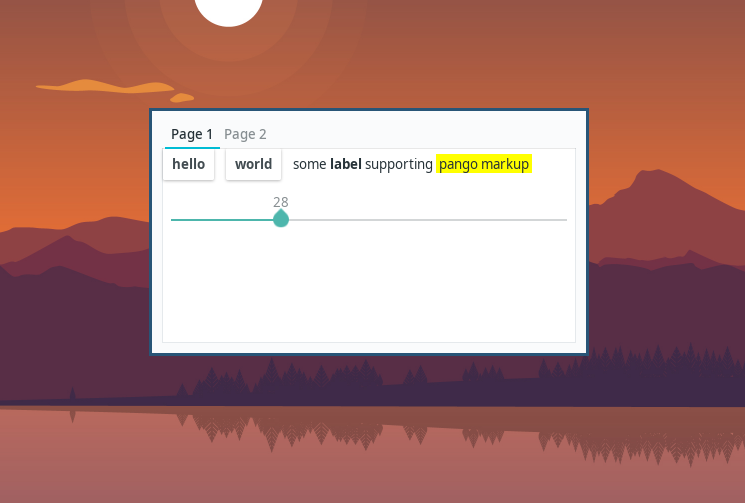
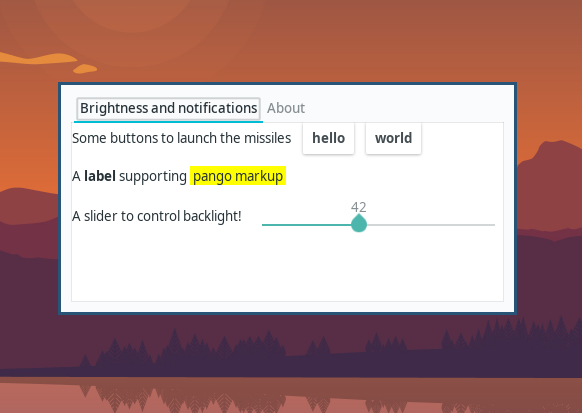
split the program into multiple modules, enabled "hexpand" for scales

diff --git a/src/main.rs b/src/main.rs
@@ -1,148 +1,42 @@
 use gtk::{ApplicationWindow, Application};
 use gtk::prelude::*;
 use gio::prelude::*;
+use std::io::prelude::*;
 
-use gtk::prelude::IsA;
-
-use std::{fmt::Debug, io::prelude::*, str::FromStr};
 use std::fs::File;
-use serde_derive::{Serialize, Deserialize};
 
 use std::env::args;
 
-#[derive(Serialize, Deserialize)]
-enum Orientation {
-    Vertical,
-    Horizontal,
-}
+mod structs;
+use structs::*;
 
-#[derive(Serialize, Deserialize)]
-enum SeralizableWidget {
-    Notebook(Vec<SeralizableWidget>),
-    Box(String, Orientation, Vec<SeralizableWidget>),
-    Label(String),
-    Button(String, String), // label, command
-    Scale(f64, f64, String, String), // min, max, initialize, update
-}
+pub mod helper;
 
-
-fn read_value_from_command <T> (command: String, default: T) -> T 
-    where T: std::str::FromStr, <T as FromStr>::Err: Debug {
-    match std::process::Command::new("sh").arg("-c").arg(command).output() {
-        Err(e) => { println!("error while running command: {}", e); default },
-        Ok(std::process::Output{status: _ , stdout: utf_8_vec, stderr: _}) => 
-            match String::from_utf8(utf_8_vec.iter().take_while(|&c| {*c != '\n' as u8}).map(|&c| c).collect()) { // this is very ugly, but it avoids parse() failing with newlines
-                Err(e) => { println!("error while making a string: {}", e); default },
-                Ok(string) => 
-                    match string.parse() {
-                        Err(e) => { println!("error while parsing string \"{}\" {:?}",string,  e); default },
-                        Ok(value) => value
-                    }
-            }
-    }
-}
-
-
-trait AddFromSerializable {
-    fn add_from(&self, obj: SeralizableWidget );
-}
-
-trait ContainerMaybeLabel {
-    fn add_maybe_with_label<W: IsA<gtk::Widget>> (&self, element: &W, label: Option<&str>);
-}
-
-
-impl ContainerMaybeLabel for gtk::Notebook {
-    fn add_maybe_with_label<W: IsA<gtk::Widget>>(&self, element: &W, label: Option<&str>) {
-        self.append_page(element, Some(& gtk::Label::new(label)));
-    }
-}
-
-impl ContainerMaybeLabel for gtk::ApplicationWindow {
-    fn add_maybe_with_label<W: IsA<gtk::Widget>>(&self, element: &W, _label: Option<&str>) {
-        self.add(element);
-    }
-}
-
-impl ContainerMaybeLabel for gtk::Box {
-    fn add_maybe_with_label<W: IsA<gtk::Widget>>(&self, element: &W, _label: Option<&str>) {
-        self.add(element);
-    }
-}
-
-
-impl<T> AddFromSerializable for T 
-    where T: ContainerExt, T:ContainerMaybeLabel {
-    fn add_from(&self, obj: SeralizableWidget) {
-        match obj {
-            SeralizableWidget::Box(name, orientation, elements) => {
-                let nb = gtk::Box::new(match orientation {
-                    Orientation::Vertical => gtk::Orientation::Vertical,
-                    Orientation::Horizontal => gtk::Orientation::Horizontal,}
-                    , 12);
-                for element in elements {
-                    nb.add_from(element);
-                }
-                self.add_maybe_with_label(&nb, Some(&*name));
-            }
-            SeralizableWidget::Notebook(v) => {
-                let nb = gtk::Notebook::new();
-                for elem in v {
-                    nb.add_from(elem);
-                }
-                self.add(&nb)
-            }
-            SeralizableWidget::Button(label, command) => {
-                let b = gtk::Button::with_label(&*label);
-                b.connect_clicked(
-                    move |_| {std::process::Command::new("sh").arg("-c")
-                        .arg(command.clone()).spawn().unwrap();
-                    });
-                self.add(&b);
-            }
-            SeralizableWidget::Label(label) => {
-                let l = gtk::Label::new(None);
-                l.set_markup(&*label);
-                l.set_line_wrap(true);
-                self.add(&l);
-            }
-            SeralizableWidget::Scale(start, end, initialize, update) => {
-                let l = gtk::Scale::with_range( gtk::Orientation::Horizontal, start, end, 1.);
-
-                l.set_value(read_value_from_command::<f64>(initialize, start));
-
-                l.connect_change_value(
-                    move |_, _, new_value| {std::process::Command::new("sh").arg("-c")
-                            .arg(format!("{} {}", update.clone(), new_value as i32))
-                            .spawn().unwrap();
-                        Inhibit(false)
-                    });
-                self.add(&l);
-            }
-        }
-    }
-}
+mod traits;
+use traits::*;
 
 
 fn build_ui(app: &Application, source: &str) {
     let win = ApplicationWindow::new(app);
     win.set_title("Dama - Menu");
     win.set_border_width(10);
-   
     win.set_position(gtk::WindowPosition::Center);
-    let mywidget: SeralizableWidget = serde_json::from_str(source).unwrap();
-   
-    win.add_from(mywidget);
-    win.show_all();
+    if let Some(mywidget) = serde_json::from_str::<SeralizableWidget>(source).ok(){
+            win.add_from(mywidget);
+            win.show_all();
+        } else { eprint!("could not deserialize string: {}", source); }
 }
 
 
-fn main() {
-    let mut f = File::open("dama.json").expect("could not read from file");
+fn main() -> std::io::Result<()> {
+    let mut f = File::open("dama.json")?; 
     let mut source = String::new();
-    f.read_to_string(&mut source).expect("there was an error parsing the config file");
-    let app = Application::new(Some("com.andrea.example"), Default::default())
-        .expect("Could not create a new application");
+    f.read_to_string(&mut source)? ;
+    let app = match Application::new(Some("com.andrea.example"), Default::default()) {
+        Ok(app) => app,
+        Err(e)  => panic!("could not initialize application {}", e)
+    }; // would be nice to use `?` here, but we would need to convert from `glib::error::BoolError`
     app.connect_activate(move |a| build_ui(a, &*source));
     app.run(&args().collect::<Vec<_>>());
+    Ok(())
 }

diff --git a/src/traits/mod.rs b/src/traits/mod.rs
@@ -1,0 +1,84 @@
+use gtk::prelude::*;
+use super::helper::*;
+use super::structs::*;
+
+pub trait AddFromSerializable {
+    fn add_from(&self, obj: SeralizableWidget );
+}
+
+pub trait ContainerMaybeLabel {
+    fn add_maybe_with_label<W: IsA<gtk::Widget>> (&self, element: &W, label: Option<&str>);
+}
+
+impl ContainerMaybeLabel for gtk::Notebook {
+    fn add_maybe_with_label<W: IsA<gtk::Widget>>(&self, element: &W, label: Option<&str>) {
+        self.append_page(element, Some(& gtk::Label::new(label)));
+    }
+}
+
+impl ContainerMaybeLabel for gtk::ApplicationWindow {
+    fn add_maybe_with_label<W: IsA<gtk::Widget>>(&self, element: &W, _label: Option<&str>) {
+        self.add(element);
+    }
+}
+
+impl ContainerMaybeLabel for gtk::Box {
+    fn add_maybe_with_label<W: IsA<gtk::Widget>>(&self, element: &W, _label: Option<&str>) {
+        self.add(element);
+    }
+}
+
+// this seems redundant, maybe we could have serde derive the 
+// (de)serialization directly for `gtk::Orientation`
+impl Into<gtk::Orientation> for Orientation {
+    fn into(self) -> gtk::Orientation {
+        match self {
+            Orientation::Vertical => gtk::Orientation::Vertical,
+            Orientation::Horizontal => gtk::Orientation::Horizontal,
+        }
+    }
+}
+
+impl<T> AddFromSerializable for T 
+    where T: ContainerExt, T:ContainerMaybeLabel {
+    fn add_from(&self, obj: SeralizableWidget) {
+        match obj {
+            SeralizableWidget::Box(name, orientation, elements) => {
+                let nb = gtk::Box::new(orientation.into(), 12);
+                for element in elements {
+                    nb.add_from(element);
+                }
+                self.add_maybe_with_label(&nb, Some(&*name));
+            }
+            SeralizableWidget::Notebook(v) => {
+                let nb = gtk::Notebook::new();
+                for elem in v {
+                    nb.add_from(elem);
+                }
+                self.add(&nb)
+            }
+            SeralizableWidget::Button(label, command) => {
+                let b = gtk::Button::with_label(&*label);
+                b.connect_clicked( move |_| execute_shell_command (command.clone()) );
+                self.add(&b);
+            }
+            SeralizableWidget::Label(label) => {
+                let l = gtk::Label::new(None);
+                l.set_markup(&*label);
+                l.set_line_wrap(true);
+                self.add(&l);
+            }
+            SeralizableWidget::Scale(start, end, initialize, update) => {
+                let l = gtk::Scale::with_range( gtk::Orientation::Horizontal, start, end, 1.);
+                l.set_value(read_value_from_command::<f64>(initialize, start));
+                l.set_hexpand(true);
+                l.connect_change_value(
+                    move |_, _, new_value| { 
+                        execute_shell_command( format!("{} {}", update.clone(), new_value as i32));
+                        Inhibit(false)
+                    });
+                self.add(&l);
+            }
+        }
+    }
+}

diff --git a/src/helper.rs b/src/helper.rs
@@ -1,0 +1,34 @@
+use std::{fmt::Debug, str::FromStr};
+use std::process::{Command, Output};
+
+pub fn read_value_from_command <T> (command: String, default: T) -> T 
+    where T: std::str::FromStr, <T as FromStr>::Err: Debug {
+    match Command::new("sh").arg("-c").arg(command).output() {
+        Err(e) => { println!("error while running command: {}", e); default },
+        Ok(Output{status: _ , stdout: utf_8_vec, stderr: _}) => 
+            match String::from_utf8(utf_8_vec.iter()
+                                    .take_while(|&c| {*c != '\n' as u8})
+                                    .map(|&c| c).collect()) 
+                                    // this is very ugly, but it avoids 
+                                    // parse() failing with newlines
+            { 
+                Err(e) => { println!("error while making a string: {}", e); default },
+                Ok(string) => 
+                    match string.parse() {
+                        Err(e) => { 
+                            println!("error while parsing string \"{}\" {:?}",string,  e); 
+                            default 
+                        },
+                        Ok(value) => value
+                    }
+            }
+    }
+}
+
+pub fn execute_shell_command(command: String) {
+    match std::process::Command::new("sh").arg("-c")
+        .arg(command.clone()).spawn() {
+            Ok(_) => (),
+            Err(e) => eprint!("{}", e)
+        }
+}

diff --git a/src/structs.rs b/src/structs.rs
@@ -1,0 +1,16 @@
+use serde_derive::{Serialize, Deserialize};
+
+#[derive(Serialize, Deserialize)]
+pub enum Orientation {
+    Vertical,
+    Horizontal,
+}
+
+#[derive(Serialize, Deserialize)]
+pub enum SeralizableWidget {
+    Notebook(Vec<SeralizableWidget>),
+    Box(String, Orientation, Vec<SeralizableWidget>),
+    Label(String),
+    Button(String, String), // label, command
+    Scale(f64, f64, String, String), // min, max, initialize, update
+}
